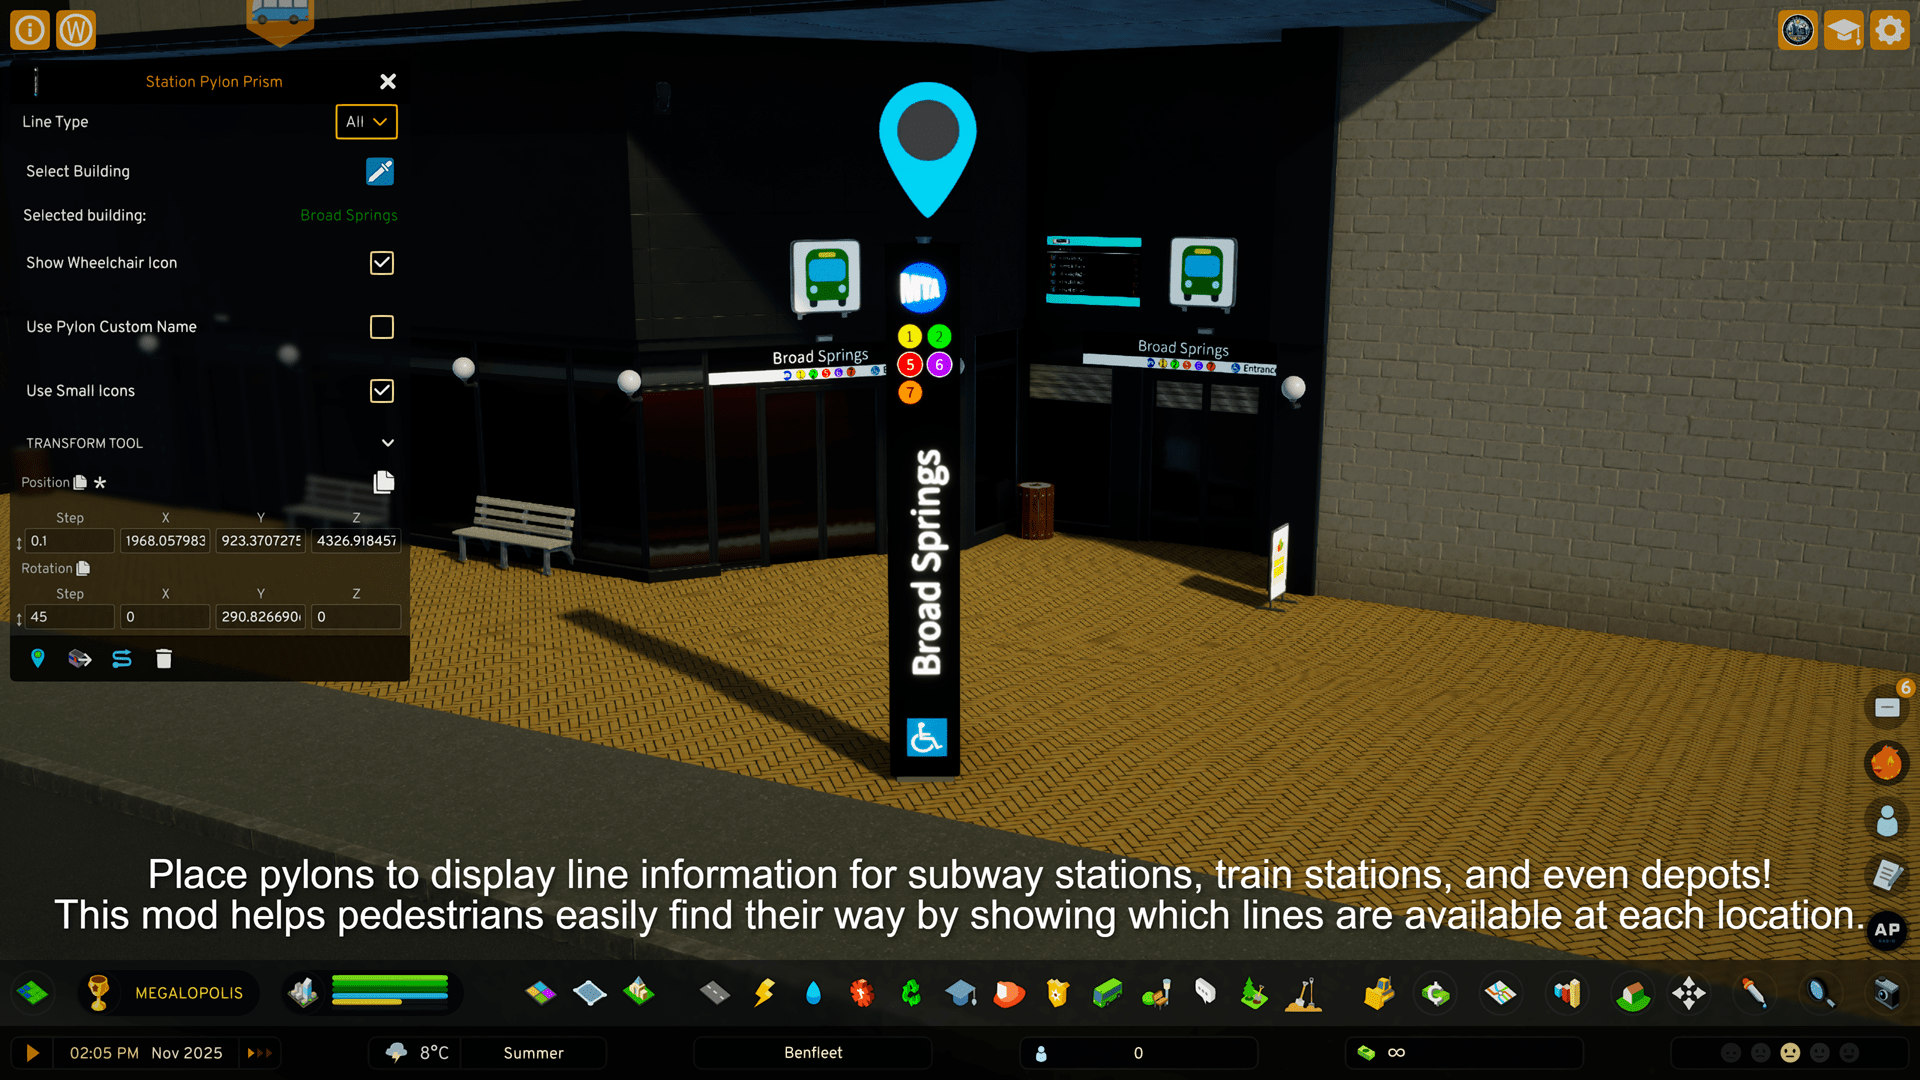
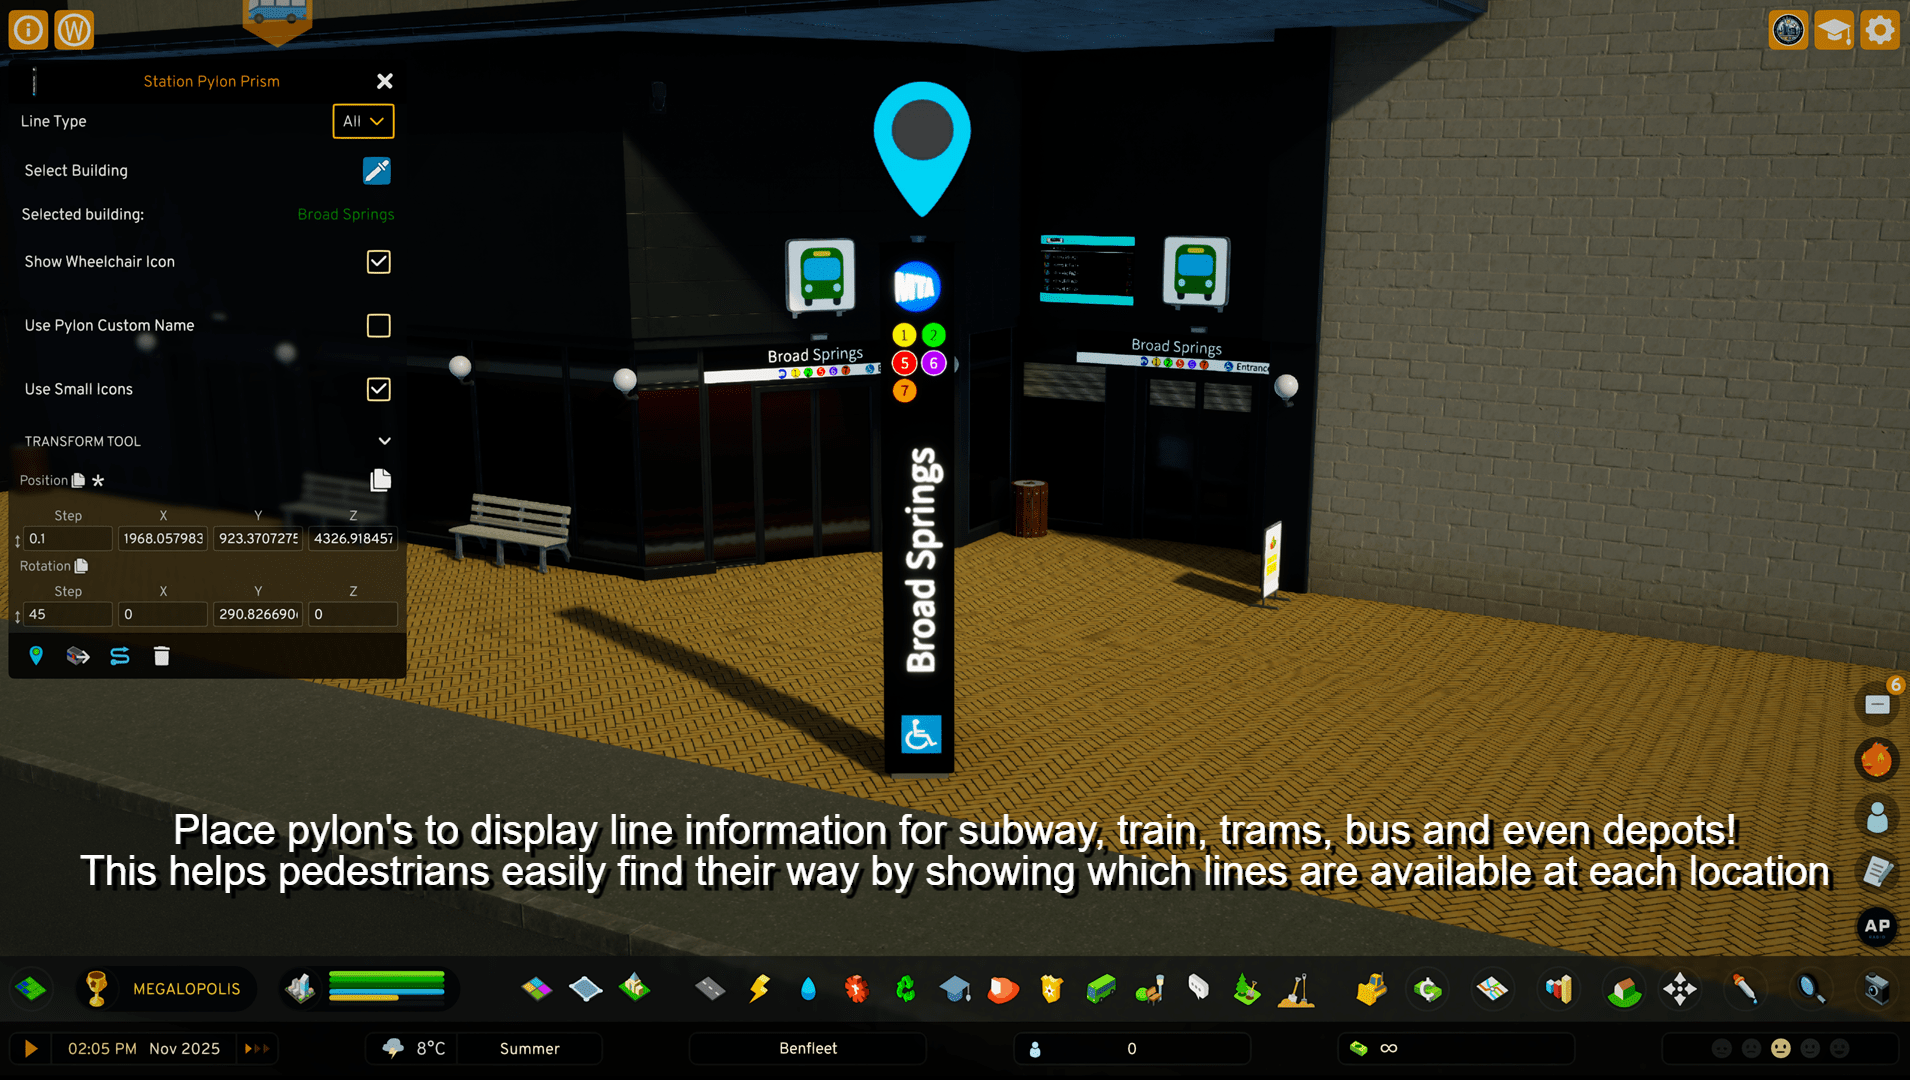
release 1.1

diff --git a/UI/src/mods/domain/TransportType.ts b/UI/src/mods/domain/TransportType.ts
@@ -2,4 +2,6 @@ export const TransportType = {
     All: 0,
     Subway: 1,
     Train: 2,
+    Tram: 3,
+    Bus: 4,
 } as const;

diff --git a/Formulas/StationPylonFormulas.cs b/Formulas/StationPylonFormulas.cs
@@ -22,6 +22,8 @@ namespace StationPylon.Formulas
                 TransportLineType.All => "All",
                 TransportLineType.Subway => "Subway",
                 TransportLineType.Train => "Train",
+                TransportLineType.Bus => "Bus",
+                TransportLineType.Tram => "Tram",
                 _ => "All"
             };
 
@@ -47,17 +49,6 @@ namespace StationPylon.Formulas
             }
 
             return (pylonData.Value.showWheelchair ? "WheelchairSquare" : "Transparent");
-        }
-        
-        public static string GetIconLayout(Entity entity, Dictionary<string, string> vars)
-        {
-            var pylonData = GetPylonData(entity);
-            if (pylonData == null)
-            {
-                return MOD_PATH + "PylonRecArray";
-            }
-
-            return MOD_PATH + (pylonData.Value.smallIcons ? "PylonSmallArray" : "PylonRecArray");
         }
         
         public static int ShowSmallIcons(Entity entity, Dictionary<string, string> vars)

diff --git a/System/SelectedBuildingUISystem.cs b/System/SelectedBuildingUISystem.cs
@@ -46,7 +46,8 @@ namespace StationPylon.System
         {
             base.OnUpdate();
             visible = false;
-            if (_nameSystem.GetDebugName(selectedEntity).Contains("StationPylonPrism"))
+            var buildingName = _nameSystem.GetDebugName(selectedEntity);
+            if (buildingName.Contains("StationPylonPrism") || buildingName.Contains("StationPylonCube"))
             {
                 visible = true;
                 _stationUiPylonDataBinding.Value = GetPylonData();

diff --git a/Domain/TransportLineType.cs b/Domain/TransportLineType.cs
@@ -4,6 +4,8 @@
     {
         All = 0,
         Subway = 1,
-        Train = 2
+        Train = 2,
+        Tram = 3,
+        Bus = 4,
     }
 }
